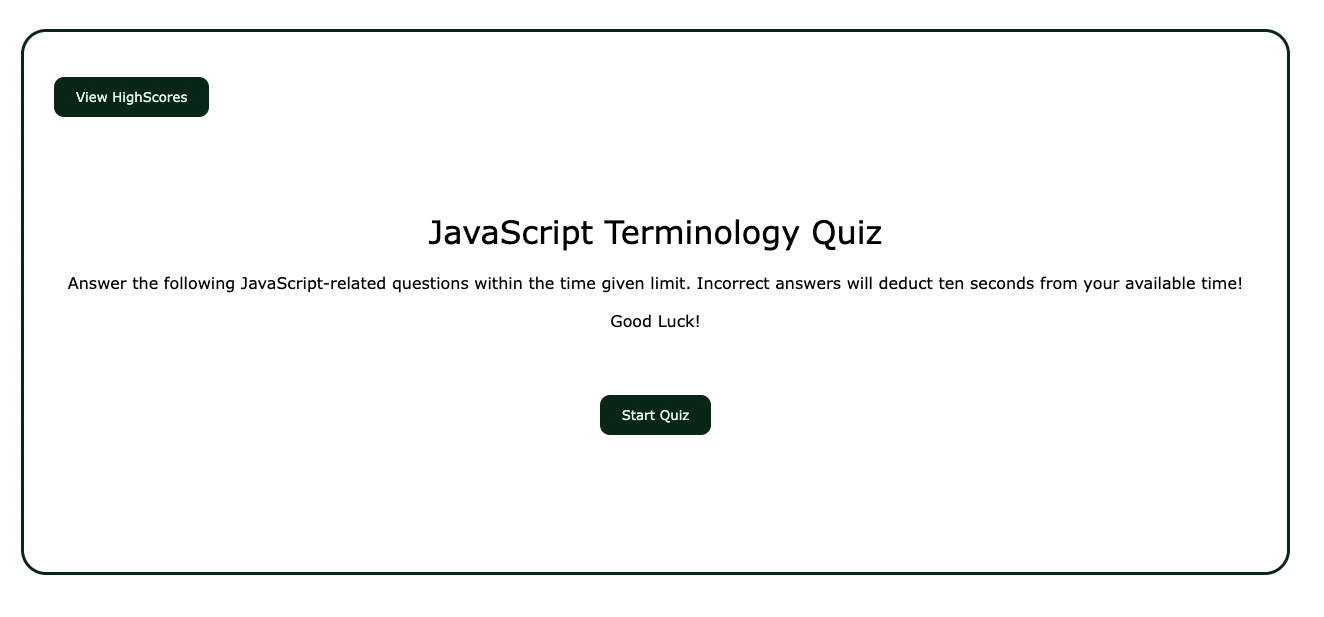
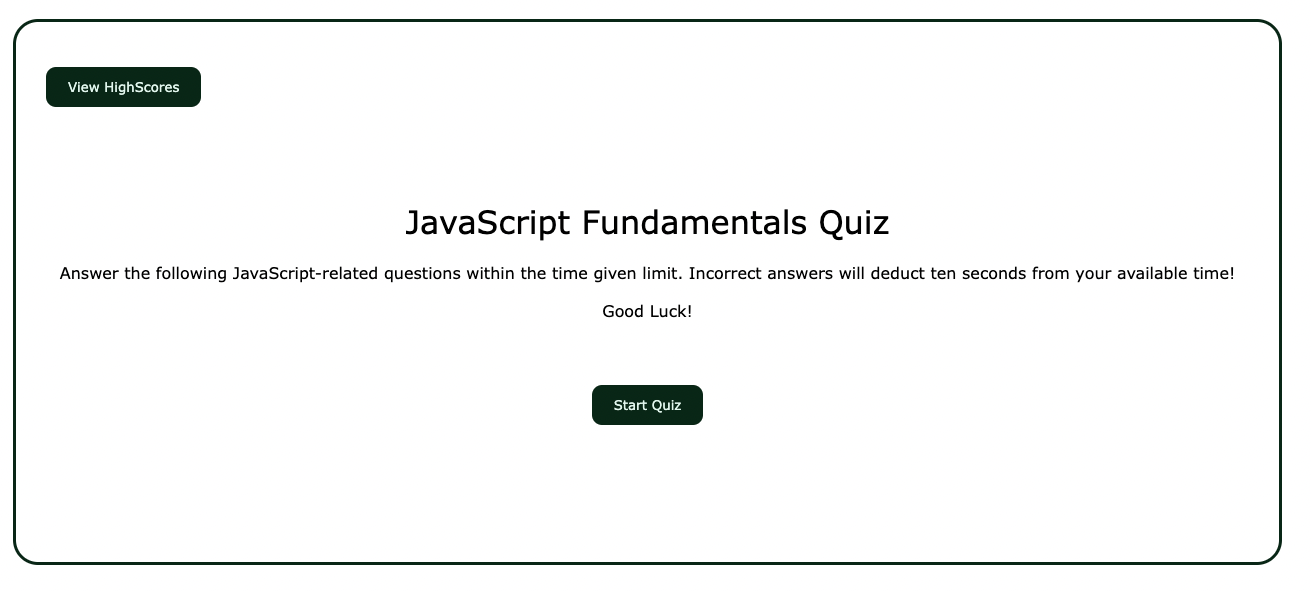
README file update - new demo image added

diff --git a/README.md b/README.md
@@ -1,4 +1,4 @@
-# Javascript-Code-Quiz
+# Javascript Fundamentals: Multiple Choice Quiz
 
 ## Table of Contents:
 
